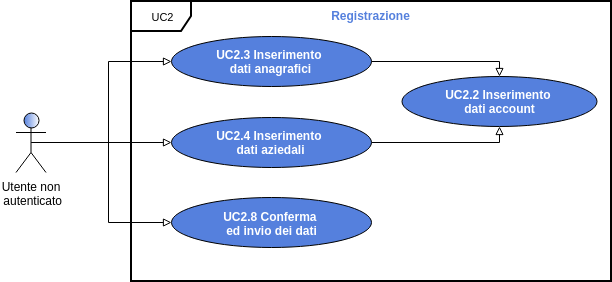
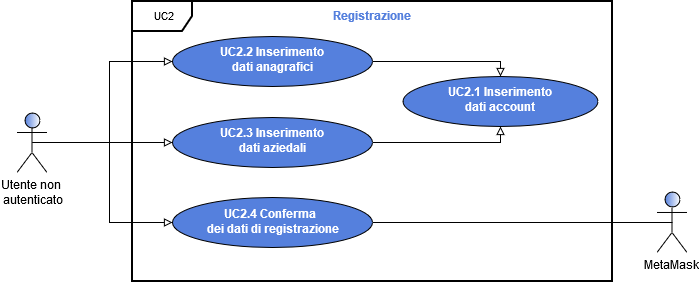
Tolto riferimento al sito di Ethereum e sistemato UC2

diff --git a/03-RQ/Esterni/Analisi_dei_requisiti/res/sections/UC/UC1-2-GuidaRegistrazione.tex b/03-RQ/Esterni/Analisi_dei_requisiti/res/sections/UC/UC1-2-GuidaRegistrazione.tex
@@ -27,28 +27,30 @@
 \begin{itemize}
 	\item \textbf{Attori Primari}: utente non autenticato;
 	\item \textbf{Attori Secondari}: MetaMask\glo;
-	\item \textbf{Descrizione}: per effettuare il procedimento di registrazione, l'utente deve disporre di una chiave\glosp non ancora utilizzata per la registrazione all'interno del sistema, e deve compilare tutti i campi necessari;
-	\item \textbf{Scenario principale}: 
-		il sistema controlla la presenza di MetaMask\glosp e verifica che la prima chiave\glosp in esso contenuta non sia già associata ad un utente registrato alla piattaforma. Successivamente rende disponibili i campi da compilare per la registrazione. Dunque, se:
+	\item \textbf{Descrizione}: per effettuare la registrazione alla piattaforma, l'utente deve accedere alla pagina dedicata nella quale deve compilare tutti i campi necessari;
+	\item \textbf{Scenario principale}: a seguito dell'accesso dell'utente alla pagina di registrazione il sistema rende disponibili i campi da compilare per la registrazione. Dunque, se:
 	\begin{enumerate}[label=\alph*.]
 	
-		\item l'utente vuole registrarsi come normale \textbf{cittadino}: 
+		\item l'utente vuole registrarsi come \textbf{cittadino}: 
 		\begin{enumerate}[label=\roman*.]
 			\item l'utente inserisce i dati anagrafici [UC2.2];
-			\item l'utente conferma ed invia i dati inseriti [UC2.4].
+			\item l'utente conferma i dati inseriti [UC2.4].
 		\end{enumerate}
 		
 		
 		\item l'utente vuole registrare la propria \textbf{azienda}:
 		\begin{enumerate}[label=\roman*.]
 			\item l'utente inserisce i dati aziendali [UC2.3];
-			\item l'utente conferma ed invia i dati inseriti [UC2.4].
+			\item l'utente conferma i dati inseriti [UC2.4].
 		\end{enumerate}
-		
-		
-		
 	\end{enumerate}
-	\item \textbf{Precondizione}: l'utente ha MetaMask\glosp installato e correttamente impostato sul proprio browser, viene considerato dal sistema come un utente non autenticato. La prima chiave\glosp nel plug-in non risulta già associata ad alcun account nel sistema. L'utente intende registrarsi come cittadino o registrare la propria azienda; 
+	\item \textbf{Estensioni}: 
+		\begin{itemize}
+			\item\textbf{UC3}: se l'utente non dispone di MetaMask o ha disabilitato l'estensione, viene visualizzato un messaggio di errore a riguardo;
+			\item\textbf{UC4}: se l'utente non possiede una chiave\glosp su MetaMask, esso viene avvisato tramite l'apposito messaggio di errore;
+			\item\textbf{UC5}: se la chiave dell'utente, fornita da MetaMask, è già stata salvata dal sistema viene visualizzato un apposito messaggio di errore che informa l'utente che la sua chiave è già stata registrata.
+		\end{itemize}
+	\item \textbf{Precondizione}: L'utente ha acceduto alla pagina di registrazione e intende registrarsi come cittadino o registrare la propria azienda; 
 	\item \textbf{Postcondizione}: l'utente è registrato correttamente nel sistema come cittadino o azienda.
 	
 \end{itemize}
@@ -68,15 +70,14 @@
 		\item l'utente inserisce l'indirizzo di residenza (sede nel caso della registrazione di un'azienda) da associare all'account [UC2.1.2].
 	\end{enumerate}
 	\item \textbf{Specializzazione}:
-	\begin{itemize}
-		\item \textbf{UC2.2}: l'utente inserisce i dati relativi alla registrazione di un cittadino;
-		\item \textbf{UC2.3}: l'utente inserisce i dati relativi alla registrazione di un'azienda.
-		
-	\end{itemize}
-	\item \textbf{Precondizione}: l'utente è entrato nel form per eseguire la procedura di registrazione. Il sistema ha rilevato e salvato una chiave\glosp valida (non associata ad alcun utente registrato alla piattaforma) attraverso il plug-in MetaMask\glo;
+		\begin{itemize}
+			\item \textbf{UC2.2}: l'utente inserisce i dati relativi alla registrazione di un cittadino;
+			\item \textbf{UC2.3}: l'utente inserisce i dati relativi alla registrazione di un'azienda.
+			
+		\end{itemize}
+	\item \textbf{Precondizione}: l'utente ha acceduto alla pagina dedicata alla procedura di registrazione;
 	\item \textbf{Postcondizione}: l'utente ha compilato i campi relativi ai dati dell'account richiesti da ogni tipologia di registrazione.
-	
-\end{itemize}
+	\end{itemize}
 \subsubsection{UC2.1.1 - Inserimento e-mail}
 \begin{itemize}
 	\item \textbf{Attori Primari}: utente non autenticato;
@@ -115,7 +116,7 @@
 		\item l'utente inserisce il proprio nome [UC2.2.1];
 		\item l'utente inserisce il proprio cognome [UC2.2.2].
 	\end{enumerate}
-	\item \textbf{Precondizione}: l'utente ha cliccato sul pulsante relativo alla registrazione come cittadino, il sistema rende disponibile il form di registrazione. Il sistema ha rilevato e salvato una chiave\glosp valida attraverso MetaMask\glo;
+	\item \textbf{Precondizione}: l'utente ha cliccato sul pulsante relativo alla registrazione come cittadino, il sistema rende disponibile il form di registrazione;
 	\item \textbf{Postcondizione}: l'utente ha compilato i campi relativi alla registrazione di un cittadino alla piattaforma.
 \end{itemize}
 \subsubsection{UC2.2.1 - Inserimento nome}
@@ -149,7 +150,7 @@
 		\item l'utente inserisce la partita IVA dell'azienda [UC2.3.1];
 		\item l'utente inserisce il nome dell'azienda [UC2.3.2].
 	\end{enumerate}
-	\item \textbf{Precondizione}: l'utente ha cliccato il link per la registrazione di un'azienda. Il sistema ha rilevato e salvato una chiave\glosp valida (non associata ad alcun utente registrato alla piattaforma) attraverso MetaMask\glo;
+	\item \textbf{Precondizione}: l'utente ha cliccato il link per la registrazione di un'azienda;
 	\item \textbf{Postcondizione}: l'utente ha compilato i campi relativi alla registrazione di un'azienda alla piattaforma.
 \end{itemize}
 \subsubsection{UC2.3.1 - Inserimento partita IVA}
@@ -169,12 +170,12 @@
 	\item \textbf{Postcondizione}: l'utente ha compilato il campo con il nome dell'azienda che intende registrare.
 \end{itemize}
 
-\subsubsection{UC2.4 - Conferma ed invio dei dati}
+\subsubsection{UC2.4 - Conferma dei dati di registrazione}
 \begin{itemize}
 	\item \textbf{Attori Primari}: utente non autenticato;
 	\item \textbf{Descrizione}:
 	l'utente preme il pulsante per la conferma e l'invio dei dati. A schermo viene mostrato un messaggio che conferma il successo dell'operazione;
-	\item \textbf{Scenario principale}: l'utente preme il pulsante di verifica ed invio dei dati dopo aver compilato i campi del form;
+	\item \textbf{Scenario principale}: l'utente preme il pulsante di conferma dei dati dopo aver compilato i campi del form. Successivamente il sistema controlla la presenza di MetaMask\glosp e verifica che la prima chiave\glosp in esso contenuta non sia già associata ad un utente registrato alla piattaforma.
 	\item \textbf{Precondizione}: il sistema permette all'utente di compilare il form di registrazione. \`E presente il pulsante per la conferma dei dati;
 	\item \textbf{Postcondizione}: viene visualizzato un messaggio per informare l'utente del fatto che la richiesta di registrazione è avvenuta con successo.
 \end{itemize}

diff --git a/03-RQ/Esterni/Analisi_dei_requisiti/res/sections/introduzione.tex b/03-RQ/Esterni/Analisi_dei_requisiti/res/sections/introduzione.tex
@@ -26,6 +26,5 @@ Al fine di evitare possibili ambiguità relative al linguaggio utilizzato nei do
 	\subitem - Chapter 4: Requirements engineering;
 	\item \textbf{Sito informativo riguardante il funzionamento del plug-in MetaMask}:\\ \textsf{\url{ https://metamask.io/}};
 	\item \textbf{Sito informativo riguardante la struttura di una fattura}:\\ \textsf{\url{ https://it.wikipedia.org/wiki/Fattura}};
-	\item \textbf{Sito ufficiale della blockchain Ethereum}: \textsf{\url{https://www.ethereum.org/}}. Il sito presenta i concetti alla base del back end\glosp dell'applicativo da sviluppare, come la rete Ethereum\glo, gli smart contracts\glosp ed il meccanismo di escrow\glo, la coniazione di nuovi token\glo. 
 
 \end{itemize}
